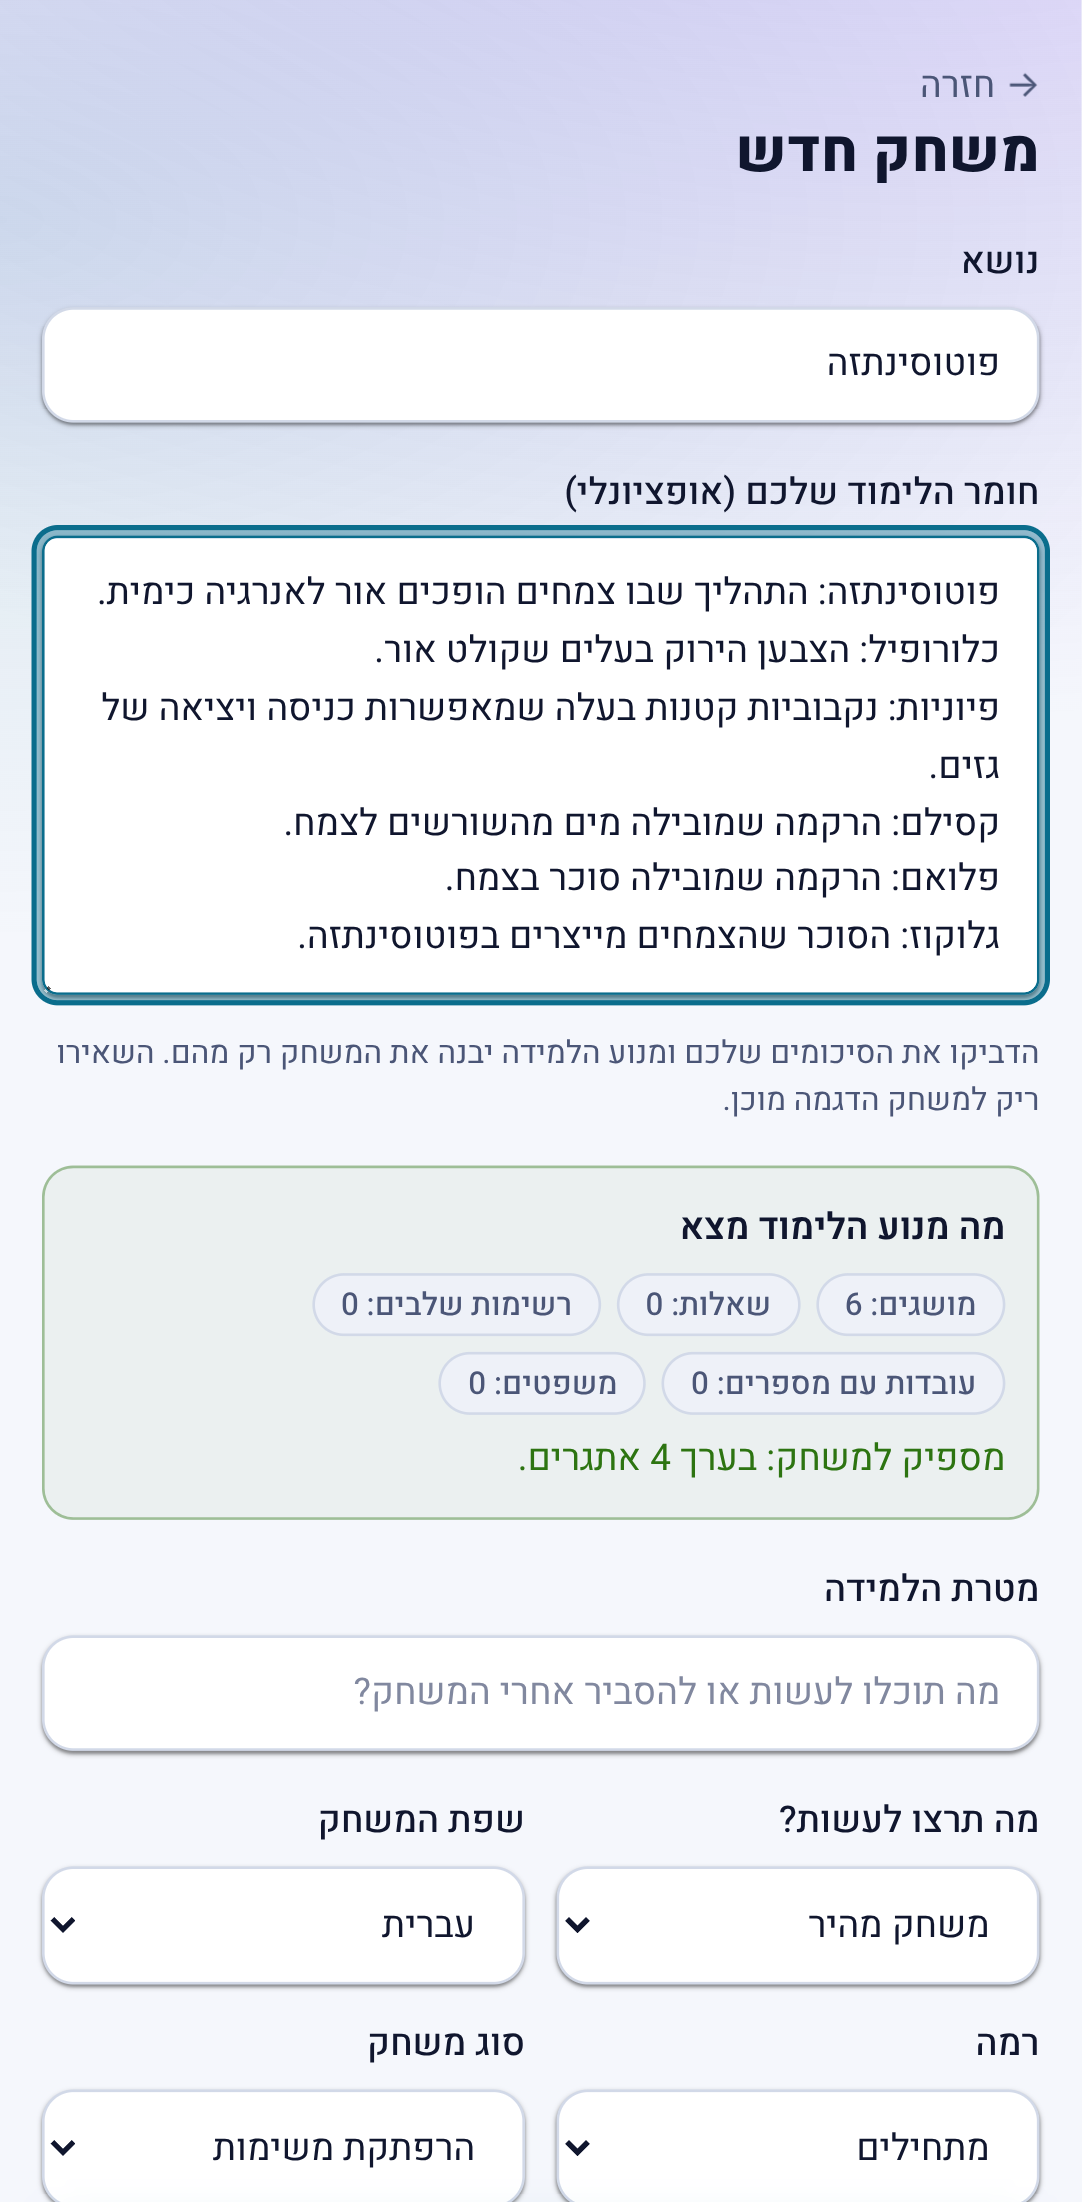
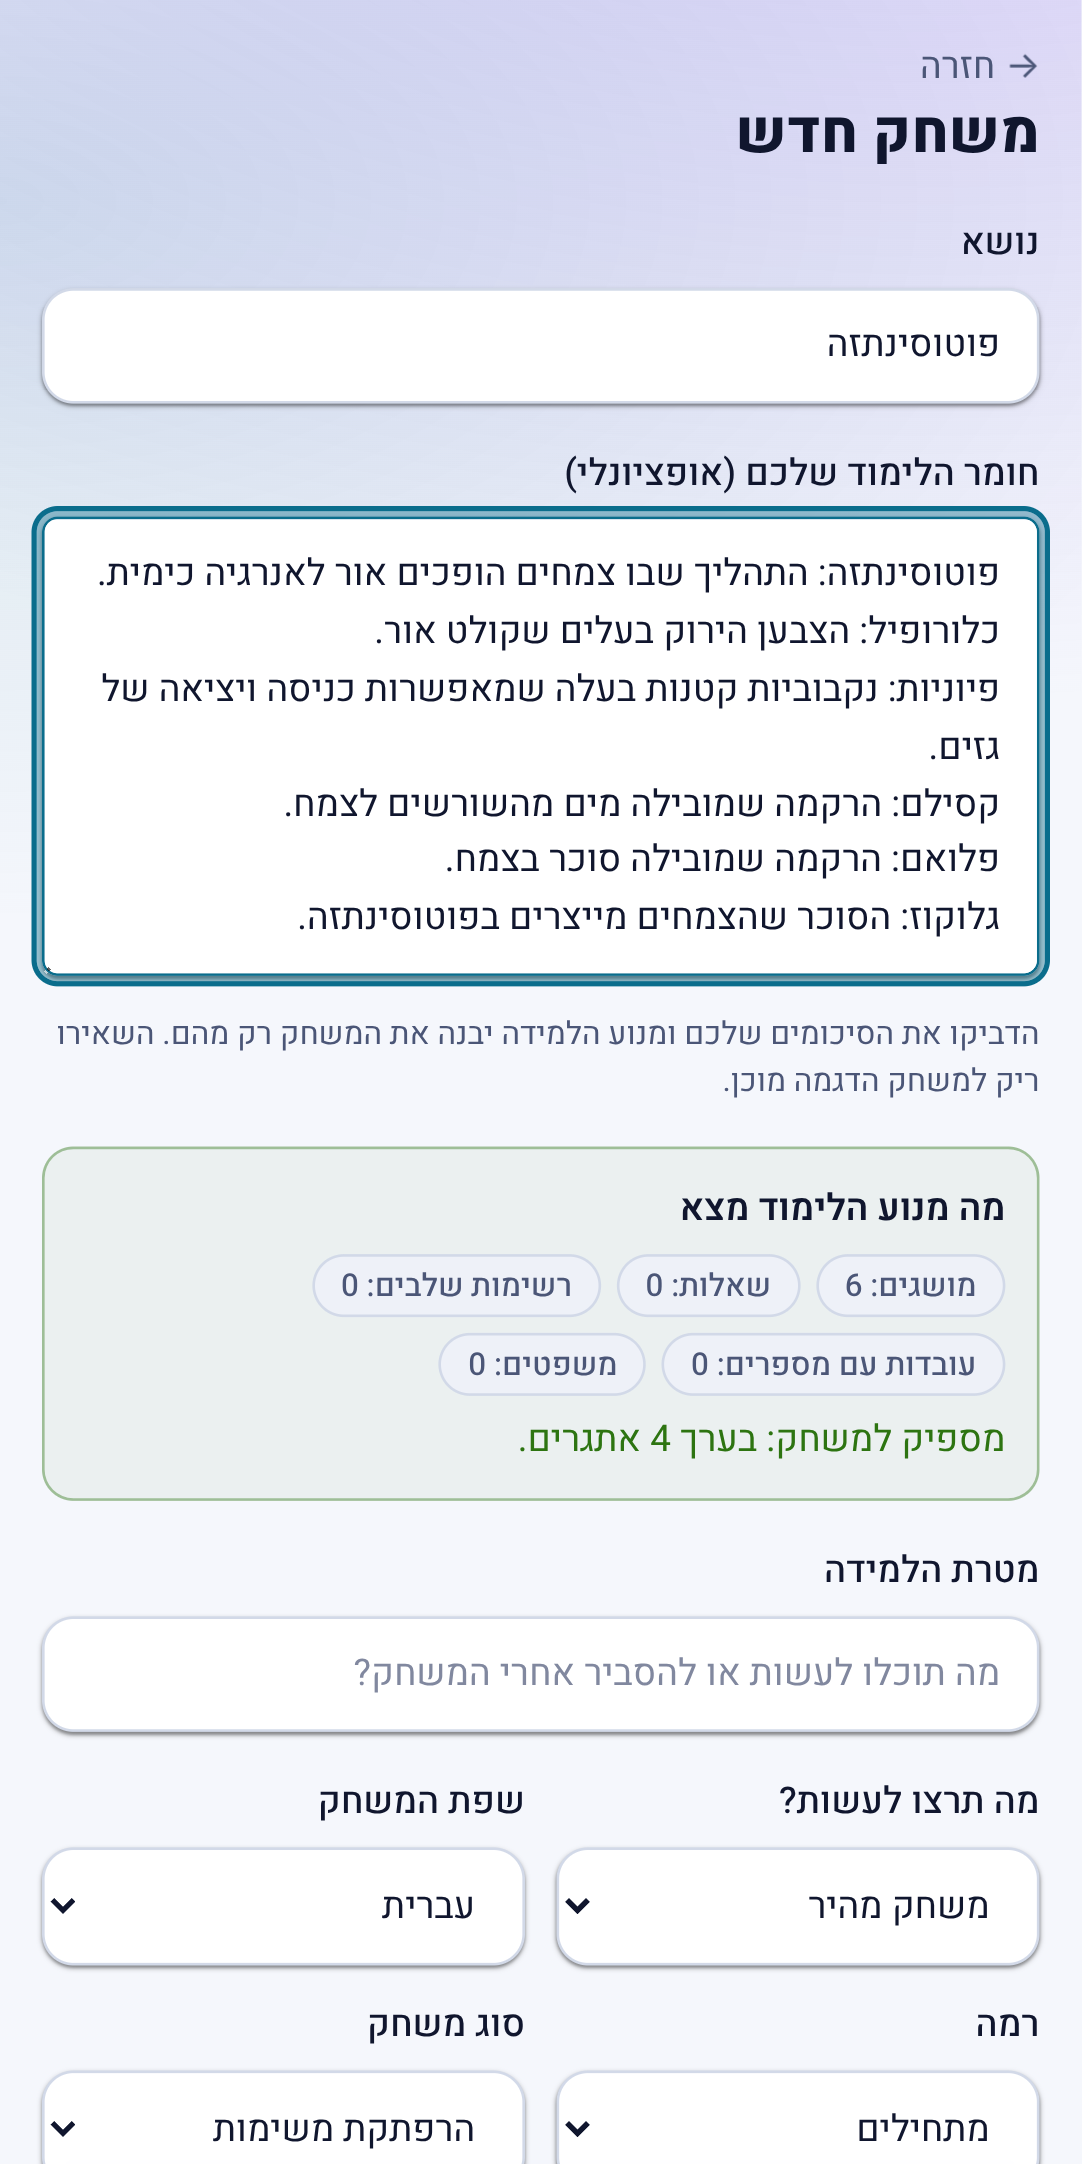
Store screenshots: within Play's 2:1 aspect-ratio limit (cropped; generator viewport fixed)
Claude-Session: https://claude.ai/code/session_01BzkS2Ju7A9tYDPWqPBK4AX

diff --git a/docs/play-release.md b/docs/play-release.md
@@ -151,8 +151,11 @@ financial declarations**: none.
 4. Create the reviewer test account and fill *App access*.
 5. Supabase dashboard (can't be done from the repo): *Confirm email* / Site URL, own SMTP before many sign-ups, password reset is
    not built in (see `mobile/store/release-checklist.md` 2b).
-6. Store listing: text in `mobile/store/listing.md`, icon, feature graphic, at least 2 phone screenshots (tablet screenshots
-   recommended); regenerate with `node mobile/shots.mjs`.
+6. Store listing: text in `mobile/store/listing.md`, icon (512x512 32-bit PNG), feature graphic (1024x500, no alpha), at least 2
+   screenshots (JPEG/24-bit PNG, "the maximum dimension ... can't be more than twice as long as the minimum dimension",
+   <https://support.google.com/googleplay/android-developer/answer/9866151>). The screenshots in `mobile/store/screenshots/` were
+   1082x2202 (2.04:1, too tall for Play); they are now cropped to 1082x2164 and `node mobile/shots.mjs` uses a 412x820 viewport so
+   regenerated ones stay within the limit. Tablet screenshots are recommended.
 7. Testing: internal track first. A personal developer account created after 13 Nov 2023 needs a closed test with at least 12
    testers opted in for 14 continuous days before it can apply for production
    (<https://support.google.com/googleplay/android-developer/answer/14151465>); the help page states it for personal accounts, so check the Dashboard for what applies to
